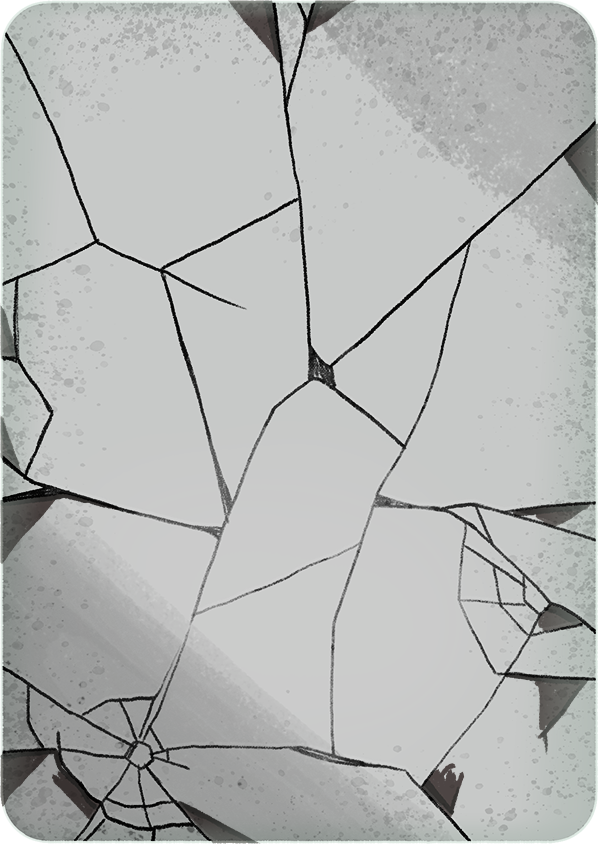
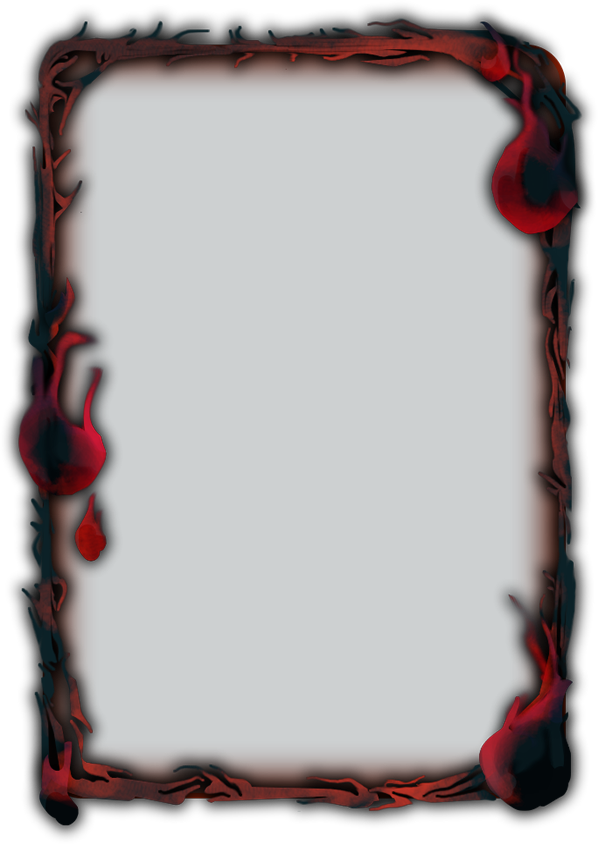
修复共鸣有时会把牌减到0费的bug 生光死炎特效更新

diff --git a/src/DemoMod/TheGleaner/Patches/HookListenerModel.cs b/src/DemoMod/TheGleaner/Patches/HookListenerModel.cs
@@ -62,7 +62,7 @@ public class HookListenerModel() : CustomSingletonModel(true, true) {
             cardsToReduceCost.AddRange(player.PlayerCombatState.Hand.Cards.Where(cardModel => cardModel != card && cardModel.Type != card.Type && cardModel.EnergyCost.GetResolved() > 1 && !cardModel.EnergyCost.CostsX));
             cardsToReduceCost.AddRange(player.PlayerCombatState.PlayPile.Cards.Where(cardModel => cardModel != card && cardModel.Type != card.Type && cardModel.EnergyCost.GetResolved() > 1 && !cardModel.EnergyCost.CostsX));
             foreach (CardModel model in cardsToReduceCost) {
-                model.EnergyCost.SetUntilPlayed(model.EnergyCost.GetResolved() - 1);
+                model.EnergyCost.SetUntilPlayed(Math.Min(model.EnergyCost.GetResolved() - 1, 1));
                 if (!model.Keywords.Contains(CustomEnums.Resonance)) {
                     model.AddKeyword(CustomEnums.Resonance);
                 }